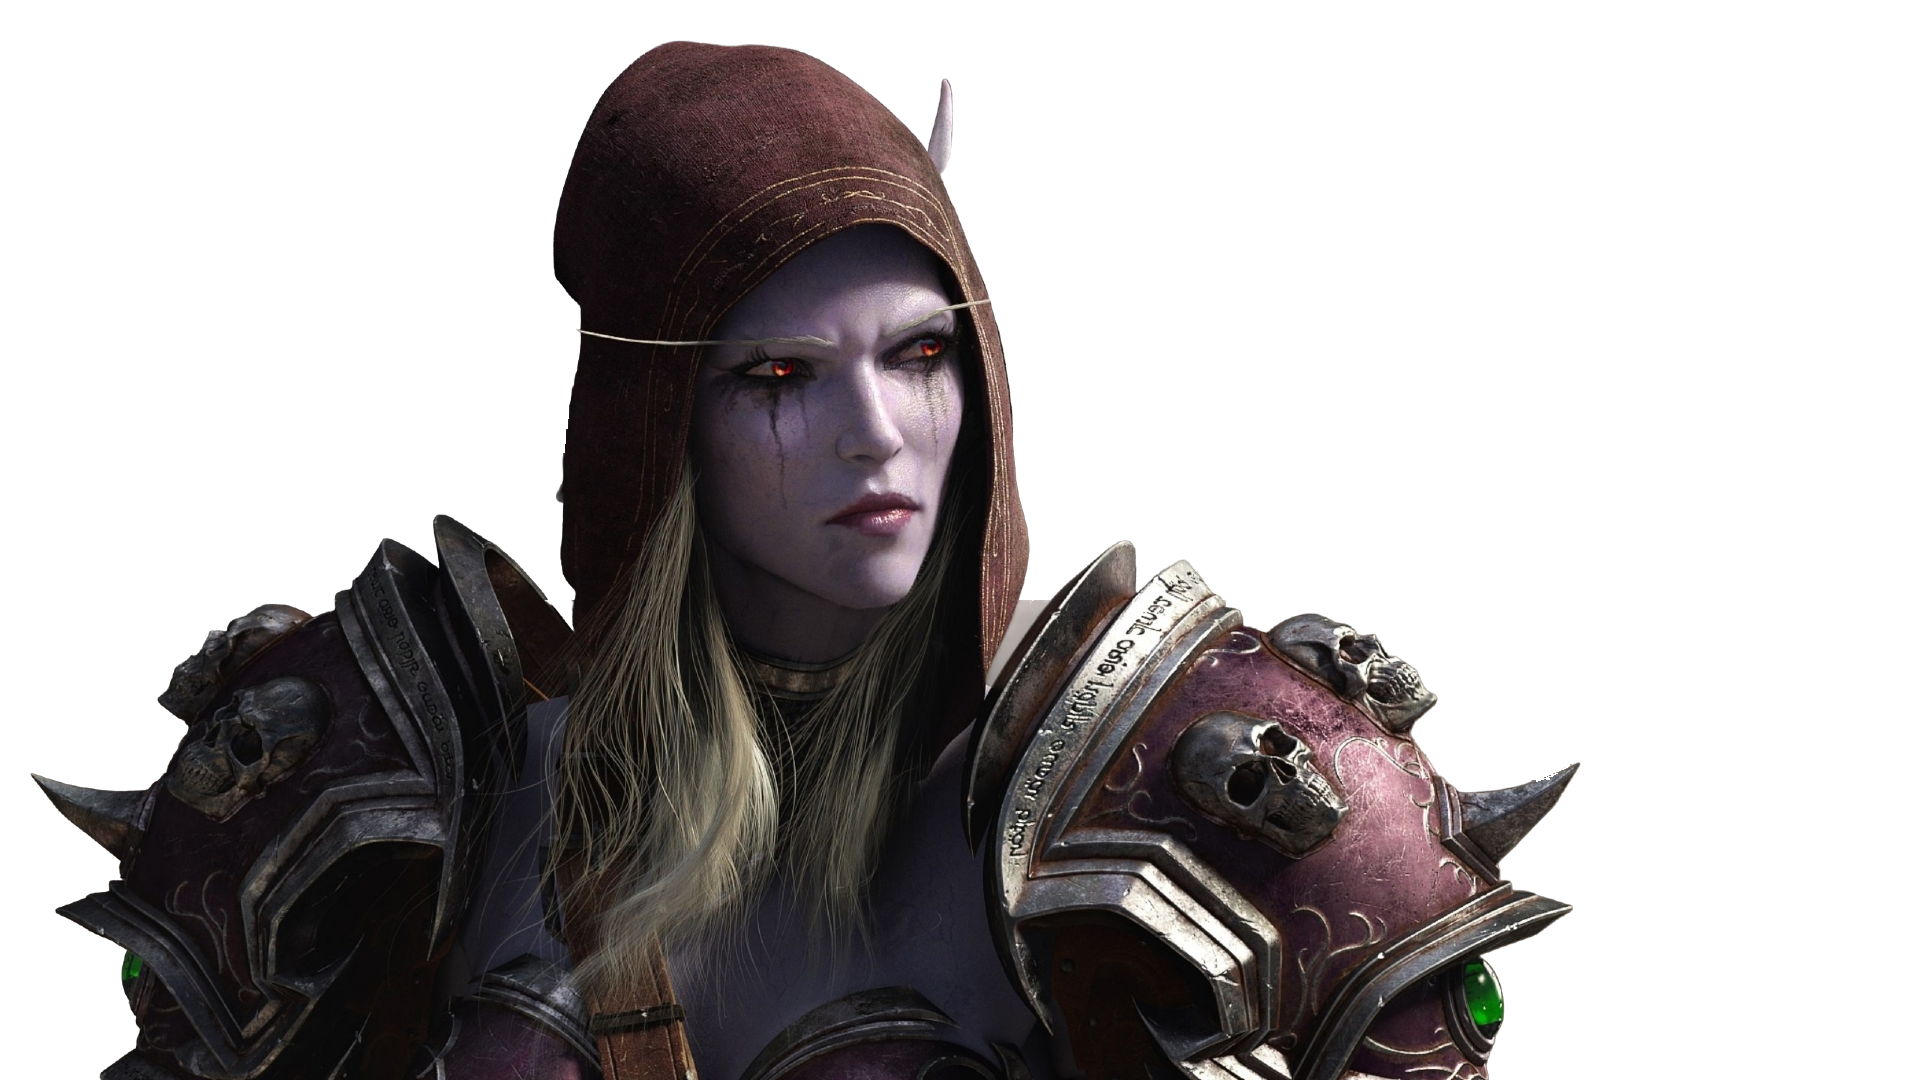
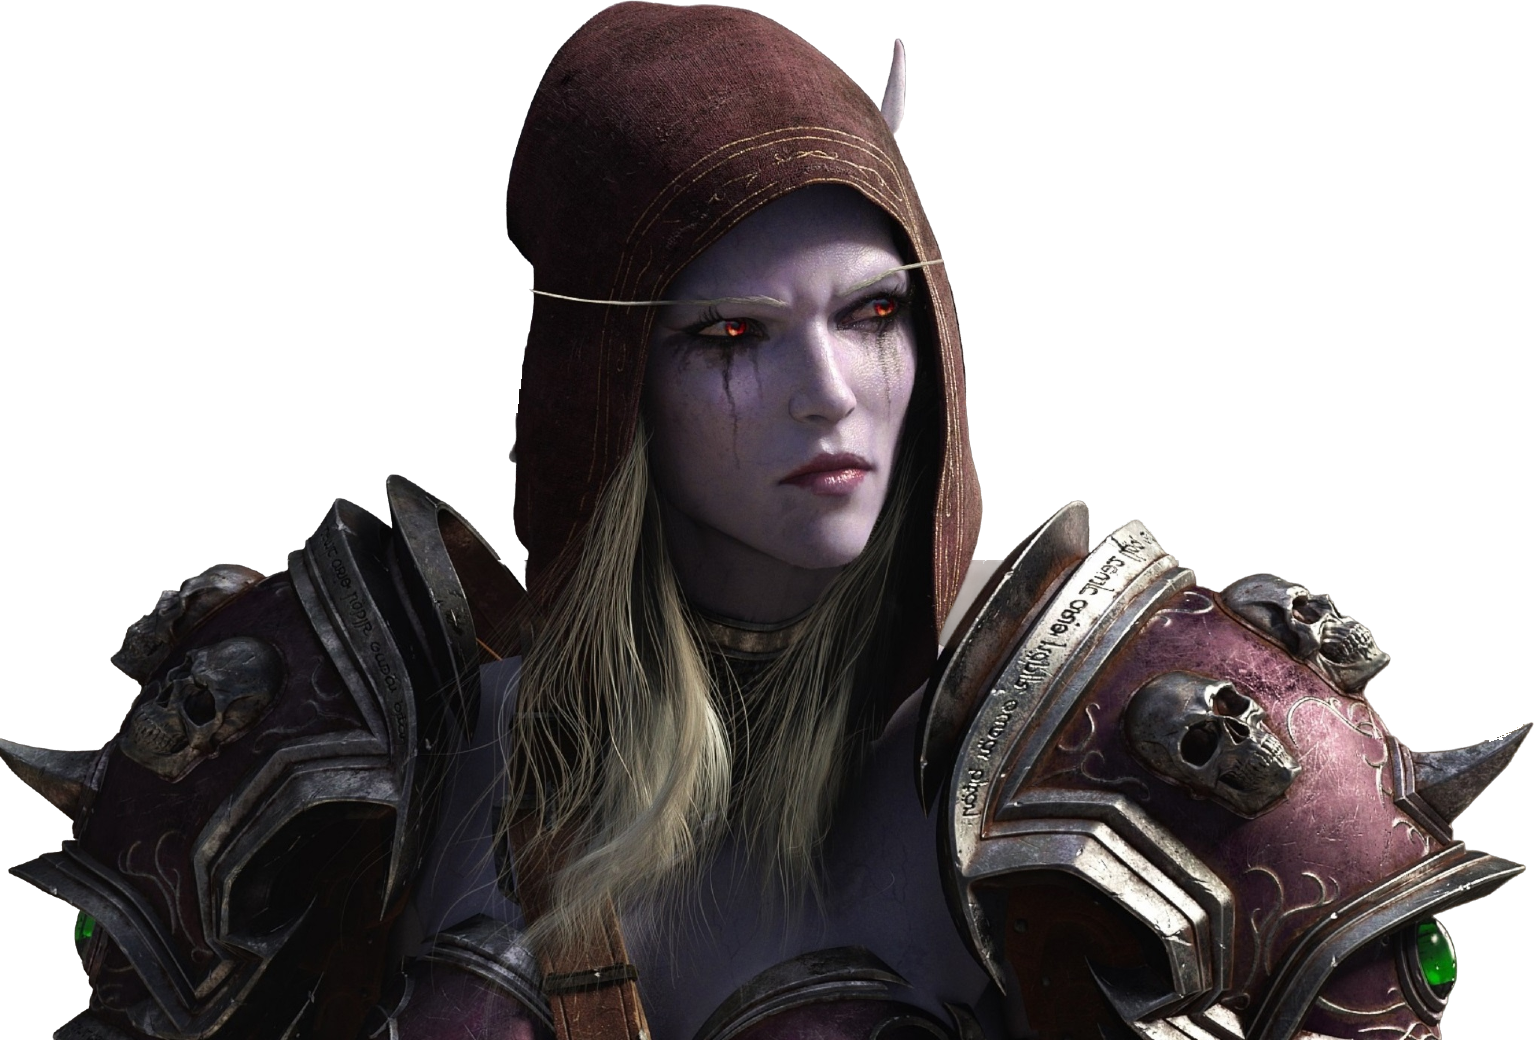
Versión 2.0

diff --git a/css/style.css b/css/style.css
@@ -258,10 +258,10 @@ header ul li a img {
 }
 
 .contenedor-horda-imagen img {
-    width:100%;
-    position: relative; /*Cambiar esto */
-    left:20px;
-    top: 67px;
+    width: 89.5%;
+    position: relative;
+    left: 25px;
+    top: 45px;
 }
 
 .contenedor-alianza-texto h1 {
@@ -477,38 +477,7 @@ footer {
     top: 0px;
     filter: none;
 }
-/*.ficha .img_back{
-    width: 100%;
-    height: 200px;
-    position: absolute;
-    bottom:-80px;
-    left: 0px;
-    background-size: cover;
-    border-radius: 20px;
-    transition: all ease 300ms;
-}
-Pseudo_clase :nth-of-type() en CSS, selecciona uno o más elementos de un tipo dado,
-puede ser p, img, videos , etc., en función de su posición y los situa entre un grupo de hermanos 
-.ficha:nth-of-type(1) .img_back{
-    background-image: url(img/enano.jpg);
-}
-.ficha:nth-of-type(2) .img_back{
-    background-image: url(img/fondo-galaxia-acuarela-pintada-mano_52683-63443.avif);
-}
-.ficha:nth-of-type(3) .img_back{
-    background-image: url(img/fondo-galaxia-acuarela-pintada-mano_52683-63443.avif);
-}
-.ficha:nth-of-type(4) .img_back{
-    background-image: url(img/fondo-galaxia-acuarela-pintada-mano_52683-63443.avif);
-}
-.ficha:nth-of-type(5) .img_back{
-    background-image: url(img/fondo-galaxia-acuarela-pintada-mano_52683-63443.avif);
-}
-.ficha:hover .img_back{
-    bottom: -40px;
-    border-radius: 20px;
-}
-*/
+
 .ficha .info{
     background: whitesmoke;
     margin-top: -10px;
@@ -1111,11 +1080,11 @@ p{
     }
 
     .contenedor-alianza-imagen img {
-        top: 106px;
+        top: 102px;
     }
     
     .contenedor-horda-imagen img {
-        top: 122px;
+        top: 102px;
     }
 
     .contenedor-expansiones {
@@ -1257,7 +1226,7 @@ p{
         width: auto;
         height: 85px;
         left: 90%;
-        top: -58%;
+        top: -69%;
     }
 
     .contenedor-noticias {
@@ -1582,7 +1551,7 @@ p{
     .contenedor-horda {
         grid-template-rows: 1fr 1fr;
         grid-template-columns: 1fr;
-        height: 620px;
+        height: auto;
     }
 
     
@@ -1620,8 +1589,9 @@ p{
 @media (max-width: 576px) {
 
     .contenedor-titulo h1 span {
-        font-size: 104px;
+        font-size: 84%;
     }
+    
     header {
         padding: 20px;
     }
@@ -1720,15 +1690,15 @@ p{
     }
 
     .contenedor-alianza-imagen img {
-        top: 1.8%;
+        top: 0.8%;
         left: 30%;
-        height: 234px;
+        height: 28.5vh;
     }
 
     .contenedor-horda-imagen img {
-        top: 28.3%;
-        left: 15%;
-        height: 234px;
+        top: 27.3%;
+        left: 17%;
+        height: 28.5vh;
     }
 
     .contenedor-horda-texto h1 {
@@ -1742,7 +1712,7 @@ p{
 
     #hordaPeq {
         left: 86%;
-        top: -69%;
+        top: -65%;
     }
 
     .contenedor_total{
